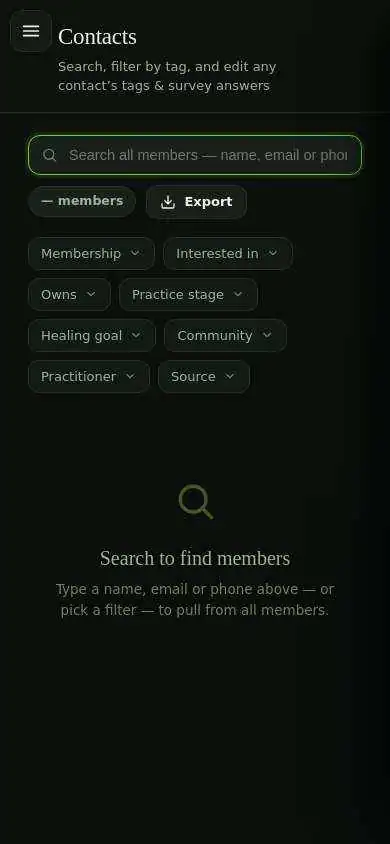
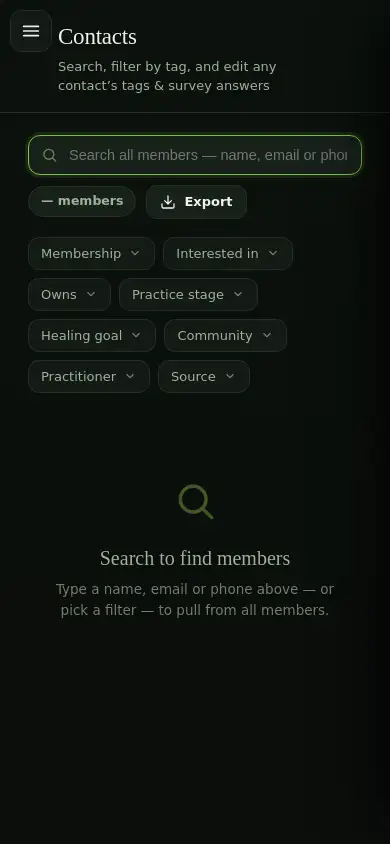
docs(control-center): Phase 3 staging evidence (WebP) and the evidence script contract
Evidence run on staging after migration 0012 (6 of 6 writes, 40 screenshots,
~1.1 MB) plus the first-sign-in password change of the three fictional
staging operators (3 writes). CONTROL-CENTER.md §7 documents the script:
loopback only, hard write cap (default 6, --dry-run), credentials from an env
file given as an argument and never printed. The 390 px banner now clears the
floating menu button.

diff --git a/admin/gadmin.css b/admin/gadmin.css
@@ -528,7 +528,7 @@ button.nav__item--btn:focus-visible,.m2 :focus-visible,.m2-dlg :focus-visible{ou
 }
 /* STAGING / TEST MODE (driven by the membership server's environment and Stripe mode). */
 .envbanner{margin:12px 28px 0;padding:10px 14px;border-radius:10px;border:2px solid var(--amber,#e0a63a);background:rgba(240,180,60,.16);color:var(--text);font-weight:700;font-size:13.5px;letter-spacing:.02em}
-@media (max-width:760px){.envbanner{margin:12px 16px 0}}
+@media (max-width:760px){.envbanner{margin:12px 16px 0 62px}}   /* clears the floating menu button */
 /* Sidebar: keyboard focus is visible on every item (buttons since Phase 3). */
 .side .nav__item:focus-visible{outline:2px solid var(--green);outline-offset:2px}
 button.nav__item{color:var(--muted)}

diff --git a/docs/membership/CONTROL-CENTER.md b/docs/membership/CONTROL-CENTER.md
@@ -205,3 +205,33 @@ Phase 3 polish (2026-10-26):
 - Sidebar: every item is a real `<button>` (Tab, Enter, Space), visible focus ring, `aria-current="page"` on the current
   section; mouse behaviour unchanged. The sidebar footer keeps "live from GHL" for the console sections that really read GHL
   (Contacts, Membership) and reads "Membership 2.0 database" while the Membership 2.0 area is open.
+
+## 7. Repeatable evidence (`scripts/control-center-evidence.cjs`)
+
+Screenshots of the Membership 2.0 area on the loopback staging stack, written as WebP (1280 px and 390 px) to
+`docs/membership/control-center-evidence/` (keep the folder near 1.2 MB).
+
+```bash
+node scripts/control-center-evidence.cjs --dry-run                       # the plan and the write count; sends nothing
+node scripts/control-center-evidence.cjs --env-file <operators env file> # the evidence run (6 writes)
+node scripts/control-center-evidence.cjs --env-file <file> --rotate-initial-passwords   # first sign-in: 3 writes
+```
+
+- **Loopback only.** `--base` (default `http://127.0.0.1:8799`, the staging Control Center) must be an `http://` loopback URL,
+  otherwise the script refuses. Every browser request to any other host is aborted (fonts included).
+- **Hard write cap.** A write is any non-GET request to `/api/admin/membership2/*` except login / logout. The plan is printed
+  first; a plan above the cap (default **6**) refuses with exit 2, and a write past the cap at run time is aborted and fails the
+  run. `--max-writes N` raises the cap for one run only, after approval.
+- **Credentials** come only from the env file given with `--env-file` (`GAIA_ADMIN_PASSWORD`,
+  `OPERATOR_{OWNER,FINANCE,SUPPORT}_{EMAIL,PASSWORD,TOTP_SECRET}`) and are never printed. `--rotate-initial-passwords` changes
+  each fixture operator's initial password through the first-sign-in screen and rewrites only the three `*_PASSWORD` lines of
+  that file in place (0600).
+- **Fixture data only:** one fixture member (`--person`, must end in `.invalid`), small amounts. Evidence-run writes: support
+  +50 goodwill (executed); support +600 (refused: finance needed); finance +600 (sent for approval, left pending); finance
+  $1.00 refund request; owner approves it (billing not connected: not executed); owner runs it again (still not executed).
+- Needs Playwright (`PLAYWRIGHT_PATH`, default `/root/.viewport-shots/node_modules/playwright`). No paid API is called.
+
+Last run: 2026-10-26 on staging after migration 0012 (6 of 6 writes, 40 screenshots, ~1.1 MB), after the three fixture
+operators changed their initial passwords (3 writes). One CSS line (the 390 px banner now clears the floating menu button) was
+fixed after the run; the 390 px shots still show the banner under the button. Audit rows written before migration 0012 have no
+`reason` column value (their reason, where there was one, is in `after.reason`); rows are append-only and were not rewritten.
